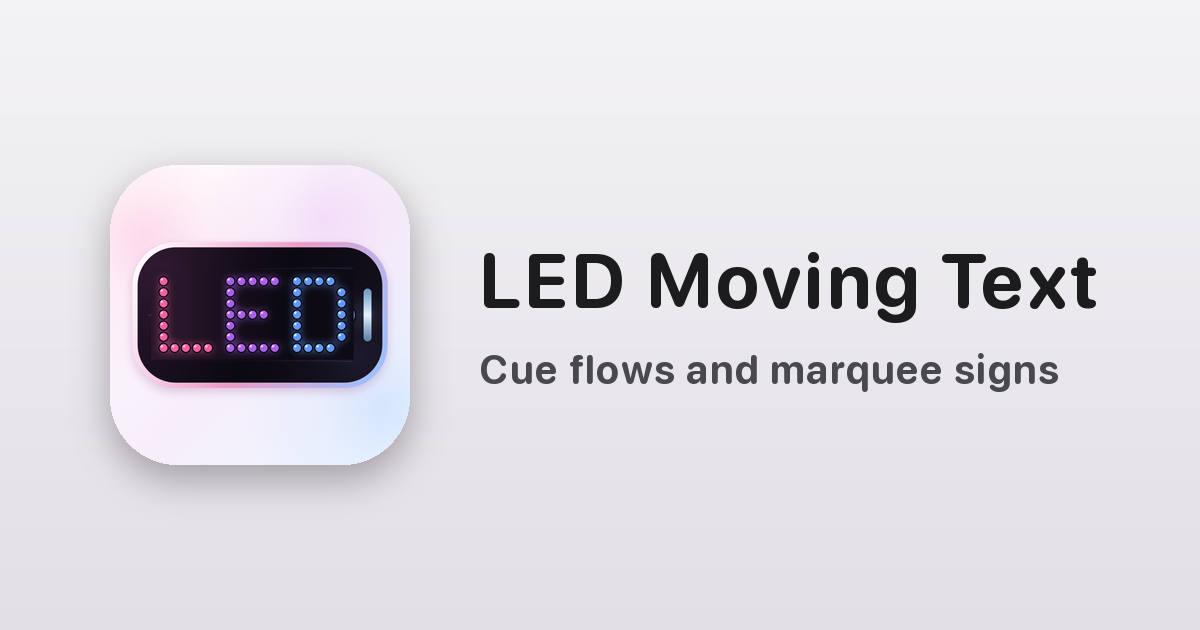
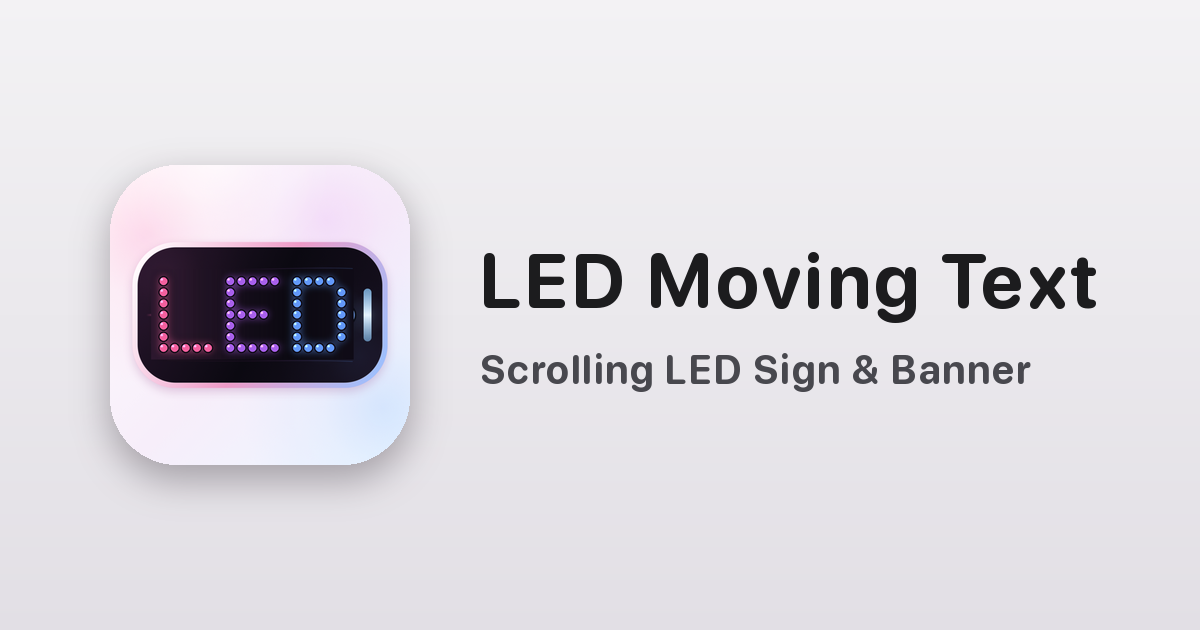
Add cross-promo footer: more apps from the same developer

Changed region(s): [[0.4008, 0.5429, 0.8942, 0.6333]]

diff --git a/compare.zh-Hans.html b/compare.zh-Hans.html
@@ -36,14 +36,17 @@ tr.ours td{background:var(--ours)}
 .btn{display:inline-block;padding:10px 16px;border:1px solid var(--line);border-radius:12px;text-decoration:none;font-weight:600}
 .note{font-size:13px;color:var(--muted)}
 </style>
+<!-- ls-pwa:start -->
+<link rel="manifest" href="/ledmovingtext-support/manifest.webmanifest">
+<!-- ls-pwa:end -->
 <!-- ls-sharecard:start -->
 <meta property="og:site_name" content="LED Moving Text">
 <meta property="og:locale" content="zh_CN">
-<meta property="og:image" content="https://open.cait518.cc/ledmovingtext-support/assets/og.png?v=5fdbb8f7c9">
+<meta property="og:image" content="https://open.cait518.cc/ledmovingtext-support/assets/og.png?v=fad10afd29">
 <meta property="og:image:type" content="image/png">
 <meta property="og:image:width" content="1200">
 <meta property="og:image:height" content="630">
-<meta property="og:image:alt" content="LED Moving Text — Cue flows and marquee signs">
+<meta property="og:image:alt" content="LED Moving Text — Scrolling LED Sign &amp; Banner">
 <meta name="twitter:card" content="summary_large_image">
 <meta name="robots" content="max-image-preview:large">
 <!-- ls-sharecard:end -->

diff --git a/compare.ja.html b/compare.ja.html
@@ -42,11 +42,11 @@ tr.ours td{background:var(--ours)}
 <!-- ls-sharecard:start -->
 <meta property="og:site_name" content="LED Moving Text">
 <meta property="og:locale" content="ja_JP">
-<meta property="og:image" content="https://open.cait518.cc/ledmovingtext-support/assets/og.png?v=5fdbb8f7c9">
+<meta property="og:image" content="https://open.cait518.cc/ledmovingtext-support/assets/og.png?v=fad10afd29">
 <meta property="og:image:type" content="image/png">
 <meta property="og:image:width" content="1200">
 <meta property="og:image:height" content="630">
-<meta property="og:image:alt" content="LED Moving Text — Cue flows and marquee signs">
+<meta property="og:image:alt" content="LED Moving Text — Scrolling LED Sign &amp; Banner">
 <meta name="twitter:card" content="summary_large_image">
 <meta name="robots" content="max-image-preview:large">
 <!-- ls-sharecard:end -->

diff --git a/about-ledmovingtext-app.html b/about-ledmovingtext-app.html
@@ -55,11 +55,11 @@ a{color:var(--accent)}
 <!-- ls-sharecard:start -->
 <meta property="og:site_name" content="LED Moving Text">
 <meta property="og:locale" content="en_US">
-<meta property="og:image" content="https://open.cait518.cc/ledmovingtext-support/assets/og.png?v=5fdbb8f7c9">
+<meta property="og:image" content="https://open.cait518.cc/ledmovingtext-support/assets/og.png?v=fad10afd29">
 <meta property="og:image:type" content="image/png">
 <meta property="og:image:width" content="1200">
 <meta property="og:image:height" content="630">
-<meta property="og:image:alt" content="LED Moving Text — Cue flows and marquee signs">
+<meta property="og:image:alt" content="LED Moving Text — Scrolling LED Sign &amp; Banner">
 <meta name="twitter:card" content="summary_large_image">
 <meta name="robots" content="max-image-preview:large">
 <!-- ls-sharecard:end -->

diff --git a/about-ledmovingtext-app.ja.html b/about-ledmovingtext-app.ja.html
@@ -55,11 +55,11 @@ a{color:var(--accent)}
 <!-- ls-sharecard:start -->
 <meta property="og:site_name" content="LED Moving Text">
 <meta property="og:locale" content="ja_JP">
-<meta property="og:image" content="https://open.cait518.cc/ledmovingtext-support/assets/og.png?v=5fdbb8f7c9">
+<meta property="og:image" content="https://open.cait518.cc/ledmovingtext-support/assets/og.png?v=fad10afd29">
 <meta property="og:image:type" content="image/png">
 <meta property="og:image:width" content="1200">
 <meta property="og:image:height" content="630">
-<meta property="og:image:alt" content="LED Moving Text — Cue flows and marquee signs">
+<meta property="og:image:alt" content="LED Moving Text — Scrolling LED Sign &amp; Banner">
 <meta name="twitter:card" content="summary_large_image">
 <meta name="robots" content="max-image-preview:large">
 <!-- ls-sharecard:end -->

diff --git a/about-ledmovingtext-app.ko.html b/about-ledmovingtext-app.ko.html
@@ -55,11 +55,11 @@ a{color:var(--accent)}
 <!-- ls-sharecard:start -->
 <meta property="og:site_name" content="LED Moving Text">
 <meta property="og:locale" content="ko_KR">
-<meta property="og:image" content="https://open.cait518.cc/ledmovingtext-support/assets/og.png?v=5fdbb8f7c9">
+<meta property="og:image" content="https://open.cait518.cc/ledmovingtext-support/assets/og.png?v=fad10afd29">
 <meta property="og:image:type" content="image/png">
 <meta property="og:image:width" content="1200">
 <meta property="og:image:height" content="630">
-<meta property="og:image:alt" content="LED Moving Text — Cue flows and marquee signs">
+<meta property="og:image:alt" content="LED Moving Text — Scrolling LED Sign &amp; Banner">
 <meta name="twitter:card" content="summary_large_image">
 <meta name="robots" content="max-image-preview:large">
 <!-- ls-sharecard:end -->

diff --git a/about-ledmovingtext-app.pt-BR.html b/about-ledmovingtext-app.pt-BR.html
@@ -55,11 +55,11 @@ a{color:var(--accent)}
 <!-- ls-sharecard:start -->
 <meta property="og:site_name" content="LED Moving Text">
 <meta property="og:locale" content="pt_BR">
-<meta property="og:image" content="https://open.cait518.cc/ledmovingtext-support/assets/og.png?v=5fdbb8f7c9">
+<meta property="og:image" content="https://open.cait518.cc/ledmovingtext-support/assets/og.png?v=fad10afd29">
 <meta property="og:image:type" content="image/png">
 <meta property="og:image:width" content="1200">
 <meta property="og:image:height" content="630">
-<meta property="og:image:alt" content="LED Moving Text — Cue flows and marquee signs">
+<meta property="og:image:alt" content="LED Moving Text — Scrolling LED Sign &amp; Banner">
 <meta name="twitter:card" content="summary_large_image">
 <meta name="robots" content="max-image-preview:large">
 <!-- ls-sharecard:end -->

diff --git a/about-ledmovingtext-app.zh-Hant.html b/about-ledmovingtext-app.zh-Hant.html
@@ -55,11 +55,11 @@ a{color:var(--accent)}
 <!-- ls-sharecard:start -->
 <meta property="og:site_name" content="LED Moving Text">
 <meta property="og:locale" content="zh_TW">
-<meta property="og:image" content="https://open.cait518.cc/ledmovingtext-support/assets/og.png?v=5fdbb8f7c9">
+<meta property="og:image" content="https://open.cait518.cc/ledmovingtext-support/assets/og.png?v=fad10afd29">
 <meta property="og:image:type" content="image/png">
 <meta property="og:image:width" content="1200">
 <meta property="og:image:height" content="630">
-<meta property="og:image:alt" content="LED Moving Text — Cue flows and marquee signs">
+<meta property="og:image:alt" content="LED Moving Text — Scrolling LED Sign &amp; Banner">
 <meta name="twitter:card" content="summary_large_image">
 <meta name="robots" content="max-image-preview:large">
 <!-- ls-sharecard:end -->

diff --git a/airport-pickup-sign-concert-sign-iphone.html b/airport-pickup-sign-concert-sign-iphone.html
@@ -47,11 +47,11 @@ a{color:var(--accent)}
 <!-- ls-sharecard:start -->
 <meta property="og:site_name" content="LED Moving Text">
 <meta property="og:locale" content="en_US">
-<meta property="og:image" content="https://open.cait518.cc/ledmovingtext-support/assets/og.png?v=5fdbb8f7c9">
+<meta property="og:image" content="https://open.cait518.cc/ledmovingtext-support/assets/og.png?v=fad10afd29">
 <meta property="og:image:type" content="image/png">
 <meta property="og:image:width" content="1200">
 <meta property="og:image:height" content="630">
-<meta property="og:image:alt" content="LED Moving Text — Cue flows and marquee signs">
+<meta property="og:image:alt" content="LED Moving Text — Scrolling LED Sign &amp; Banner">
 <meta name="twitter:card" content="summary_large_image">
 <meta name="robots" content="max-image-preview:large">
 <!-- ls-sharecard:end -->

diff --git a/khokhwam-wing-led-faq.th.html b/khokhwam-wing-led-faq.th.html
@@ -46,11 +46,11 @@ a{color:var(--accent)}
 <!-- ls-sharecard:start -->
 <meta property="og:site_name" content="LED Moving Text">
 <meta property="og:locale" content="th_TH">
-<meta property="og:image" content="https://open.cait518.cc/ledmovingtext-support/assets/og.png?v=5fdbb8f7c9">
+<meta property="og:image" content="https://open.cait518.cc/ledmovingtext-support/assets/og.png?v=fad10afd29">
 <meta property="og:image:type" content="image/png">
 <meta property="og:image:width" content="1200">
 <meta property="og:image:height" content="630">
-<meta property="og:image:alt" content="LED Moving Text — Cue flows and marquee signs">
+<meta property="og:image:alt" content="LED Moving Text — Scrolling LED Sign &amp; Banner">
 <meta name="twitter:card" content="summary_large_image">
 <meta name="robots" content="max-image-preview:large">
 <!-- ls-sharecard:end -->

diff --git a/lauftext-app-fragen-vor-dem-download.de-DE.html b/lauftext-app-fragen-vor-dem-download.de-DE.html
@@ -47,11 +47,11 @@ a{color:var(--accent)}
 <!-- ls-sharecard:start -->
 <meta property="og:site_name" content="LED Moving Text">
 <meta property="og:locale" content="de_DE">
-<meta property="og:image" content="https://open.cait518.cc/ledmovingtext-support/assets/og.png?v=5fdbb8f7c9">
+<meta property="og:image" content="https://open.cait518.cc/ledmovingtext-support/assets/og.png?v=fad10afd29">
 <meta property="og:image:type" content="image/png">
 <meta property="og:image:width" content="1200">
 <meta property="og:image:height" content="630">
-<meta property="og:image:alt" content="LED Moving Text — Cue flows and marquee signs">
+<meta property="og:image:alt" content="LED Moving Text — Scrolling LED Sign &amp; Banner">
 <meta name="twitter:card" content="summary_large_image">
 <meta name="robots" content="max-image-preview:large">
 <!-- ls-sharecard:end -->

diff --git a/led-scrolling-sign-faq.zh-Hans.html b/led-scrolling-sign-faq.zh-Hans.html
@@ -46,11 +46,11 @@ a{color:var(--accent)}
 <!-- ls-sharecard:start -->
 <meta property="og:site_name" content="LED Moving Text">
 <meta property="og:locale" content="zh_CN">
-<meta property="og:image" content="https://open.cait518.cc/ledmovingtext-support/assets/og.png?v=5fdbb8f7c9">
+<meta property="og:image" content="https://open.cait518.cc/ledmovingtext-support/assets/og.png?v=fad10afd29">
 <meta property="og:image:type" content="image/png">
 <meta property="og:image:width" content="1200">
 <meta property="og:image:height" content="630">
-<meta property="og:image:alt" content="LED Moving Text — Cue flows and marquee signs">
+<meta property="og:image:alt" content="LED Moving Text — Scrolling LED Sign &amp; Banner">
 <meta name="twitter:card" content="summary_large_image">
 <meta name="robots" content="max-image-preview:large">
 <!-- ls-sharecard:end -->

diff --git a/pancarte-concert-telephone.fr-FR.html b/pancarte-concert-telephone.fr-FR.html
@@ -46,11 +46,11 @@ a{color:var(--accent)}
 <!-- ls-sharecard:start -->
 <meta property="og:site_name" content="LED Moving Text">
 <meta property="og:locale" content="fr_FR">
-<meta property="og:image" content="https://open.cait518.cc/ledmovingtext-support/assets/og.png?v=5fdbb8f7c9">
+<meta property="og:image" content="https://open.cait518.cc/ledmovingtext-support/assets/og.png?v=fad10afd29">
 <meta property="og:image:type" content="image/png">
 <meta property="og:image:width" content="1200">
 <meta property="og:image:height" content="630">
-<meta property="og:image:alt" content="LED Moving Text — Cue flows and marquee signs">
+<meta property="og:image:alt" content="LED Moving Text — Scrolling LED Sign &amp; Banner">
 <meta name="twitter:card" content="summary_large_image">
 <meta name="robots" content="max-image-preview:large">
 <!-- ls-sharecard:end -->
